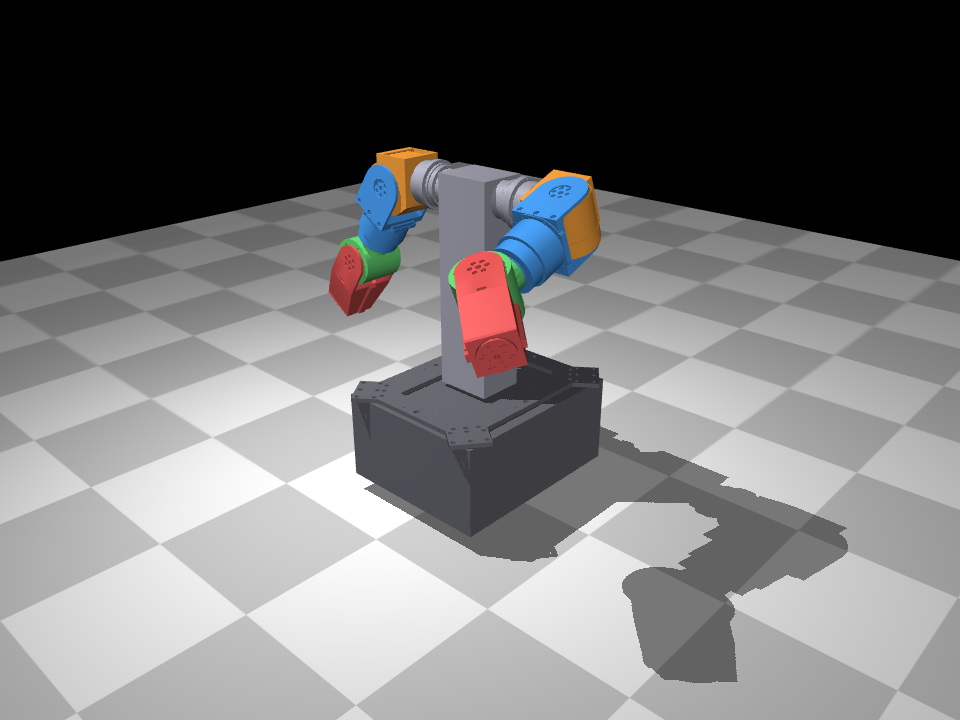
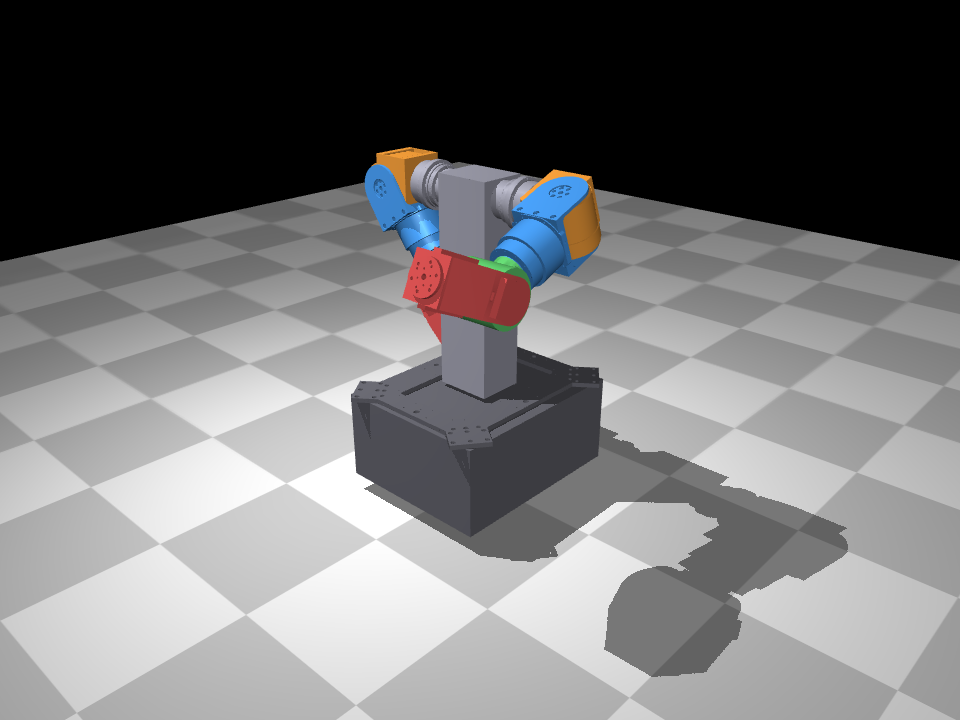
week04: 팀장 10/14 규칙(REP 103·공칭값·영점) 반영 v0 재생성, 골격 대조, 보고서·로그 갱신
- build_v0_urdf.py: cad_frame 고정 변환 1개, 축 직교·좌우 대칭 공칭값, 영점 팔 내림·팔꿈치 전방 굽힘
- verify_robot_v0.py: CAD 자세(yaw +pi/2) 편차표 joint_origin_check.csv, 접촉 0, 2 s 유지 최대 0.056 deg
- check_skeleton_vs_cad.py: 공칭 v0 vs 박종진 골격 8축 축·부호 일치, 앵커 차 <= 1.73 mm
- 노트북 뷰어 캡처 2장 갱신(새 영점), 렌더 4장
- logs/week04.md, notes/09 §10, 4주차 보고서 갱신

Claude-Session: https://claude.ai/code/session_01EMXRjTpmBaPLRBRAVHKhW2

Changed region(s): [[0.3438, 0.2444, 0.5625, 0.5194], [0.625, 0.825, 0.7812, 0.9472]]

diff --git a/sim/scripts/build_v0_urdf.py b/sim/scripts/build_v0_urdf.py
@@ -1,6 +1,12 @@
 # week04 | 우리 로봇 v0 URDF 조립: 베이스(planar, 임시 box) + 몸통(임시 box + 어깨 RI85 고정부) + 양팔 4링크 (함태훈, B1)
 # 입력 (step_to_links.py · find_joint_axes.py 결과): sim/robot/link_mass_props.csv, joint_axes_cad.csv, linkmap_arm.json, meshes/
 # 출력: sim/robot/our_robot_v0.urdf  (+ 가정값은 아래 ASSUME 표 — 확정 시 교체)
+# 팀장 회신(10/14) 규칙 반영:
+#   ① base_link = REP 103, CAD → 로봇 고정 변환은 하나(cad_frame, torso_link 아래 고정 프레임)로만 표현. CAD 점 p[mm] = cad_frame 기준 p/1000
+#   ② URDF 는 공칭값: 축은 단위축(직교), 오른팔 joint origin 은 왼팔의 거울(y 부호 반대). CAD 편차(1.37° · 7 mm)는 joint 원점 검증표에 기록
+#   ③ 영점 = 팔 내린 자세 + 팔꿈치 전방 굽힘. CAD 자세와의 90° 차이는 shoulder_yaw origin rpy (0, 0, ∓π/2)(left −, right +)로 흡수
+#      → CAD 자세 = 양팔 shoulder_yaw q = +π/2. 메시 · 관성은 링크 프레임 기준이라 그대로
+#   ④ 축 부호: 왼팔 pitch +y · roll +x · yaw +z · elbow +x, 오른팔은 거울(roll −x · yaw −z · elbow −x) — 박종진 ICD v0 3.4 와 같음
 # 실행: python sim/scripts/build_v0_urdf.py
 import csv, json, math, os
 import numpy as np
@@ -83,18 +89,32 @@ out += [f'  <joint name="torso_joint" type="fixed"><parent link="base_link"/><ch
         f'    <visual><origin xyz="{vec(tc)}"/><geometry><box size="{vec(tb)}"/></geometry></visual>\n',
         f'    <collision><origin xyz="{vec(tc - [0, 0, 0.0])}"/><geometry><box size="{f(tb[0])} {f(tb[1] - 0.002)} {f(tb[2])}"/></geometry></collision>\n',
         '  </link>\n']
+# ---- cad_frame: CAD 좌표계를 몸통 아래 고정 프레임 하나로 (CAD 원점 · 축 그대로, m 단위)
+mid_mm = np.array(lm["torso_link"]["origin_mm"])
+cad_xyz = R.T @ (-mid_mm) / 1000                              # 몸통 원점 → CAD 원점 (로봇 축)
+out += [f'  <joint name="cad_frame_joint" type="fixed"><parent link="torso_link"/><child link="cad_frame"/>\n'
+        f'    <origin xyz="{vec(np.round(cad_xyz, 5))}" rpy="1.5708 0 1.5708"/></joint>\n',
+        '  <link name="cad_frame"/>   <!-- CAD 점 p[mm] → 이 프레임 기준 p/1000. 정면(+z_CAD) 확정 시 이 변환만 바꿈 -->\n']
+AXIS = {"shoulder_pitch": (0, 1, 0), "shoulder_roll": (1, 0, 0), "shoulder_yaw": (0, 0, 1), "elbow": (1, 0, 0)}
+MIRROR = {"shoulder_pitch": 1, "shoulder_roll": -1, "shoulder_yaw": -1, "elbow": -1}     # 오른팔 축 부호
+YAW_RPY = {"left": -np.pi / 2, "right": np.pi / 2}
+# 공칭 joint origin: 왼팔 CAD 값에서 1e-3 m 미만 성분(축 기울기 · 조립 오차로 생긴 것)을 0 으로, 오른팔은 y 거울
+nominal = {}
+for (part, parent, jk), act in zip(CHAIN, ACT["left"]):
+    child = f"left_{part}_link"; par = parent if parent == "torso_link" else f"left_{parent}_link"
+    xyz = R.T @ (np.array(lm[child]["origin_mm"]) - np.array(lm[par]["origin_mm"])) / 1000
+    nominal[part] = np.where(np.abs(xyz) < 1e-3, 0.0, np.round(xyz, 5))
 rows = []
 for side in SIDES:
     for (part, parent, jk), act in zip(CHAIN, ACT[side]):
         child = f"{side}_{part}_link"
         par = parent if parent == "torso_link" else f"{side}_{parent}_link"
-        p_cad, c_cad = np.array(lm[par]["origin_mm"]), np.array(lm[child]["origin_mm"])
-        xyz = R.T @ (c_cad - p_cad) / 1000
-        ax = R.T @ np.array([float(axes[act][k]) for k in ("axis_x", "axis_y", "axis_z")])
-        ax = ax / np.linalg.norm(ax); ax = ax if ax[np.argmax(np.abs(ax))] > 0 else -ax    # 주성분 + 방향 (G1 관례)
+        xyz = nominal[part] * (np.array([1, -1, 1]) if side == "right" else 1)
+        ax = np.array(AXIS[part], float) * (MIRROR[part] if side == "right" else 1)
+        rpy = (0, 0, YAW_RPY[side]) if part == "shoulder_yaw" else (0, 0, 0)
         m, c, I = cad(child)
         out += [f'  <joint name="{side}_{part}_joint" type="revolute"><parent link="{par}"/><child link="{child}"/>\n'
-                f'    <origin xyz="{vec(xyz)}" rpy="0 0 0"/><axis xyz="{vec(np.round(ax, 4))}"/>\n'
+                f'    <origin xyz="{vec(xyz)}" rpy="{vec(np.round(rpy, 4))}"/><axis xyz="{vec(ax)}"/>\n'
                 f'    <limit lower="{-A["limit"]}" upper="{A["limit"]}" effort="{A["effort"]}" velocity="{A["velocity"]}"/></joint>\n',
                 f'  <link name="{child}">\n', inertial(m, c, I), mesh_geoms(child), '  </link>\n']
         rows.append((f"{side}_{part}_joint", act, xyz, ax))

diff --git a/sim/scripts/check_skeleton_vs_cad.py b/sim/scripts/check_skeleton_vs_cad.py
@@ -1,8 +1,8 @@
 # week04 | 팀 연계: 박종진 골격 URDF(b1_humanoid_skeleton.urdf, 커밋 e292b37) joint origin · axis vs 함태훈 CAD 관절 축 검증표 (함태훈, B1)
 # 비교 방법: 두 모델을 q = 0 으로 MuJoCo 에 올려 각 관절의 앵커(xanchor) · 축(xaxis)을 「몸통(torso_link) 프레임」으로 옮긴 뒤,
 #   골격 앵커가 CAD 축 직선에서 얼마나 떨어졌는지(수직거리), 축 방향이 몇 도 다른지 계산. 축 위 위치 차이는 원점 선택 차이일 뿐이라 따로 표시.
-# 실행: python sim/scripts/check_skeleton_vs_cad.py --skeleton <박종진 저장소>/b1/models/v0/urdf/b1_humanoid_skeleton.urdf
-#   → sim/robot/joint_check_skeleton.csv
+# 실행: ① 10/13 CAD 그대로 v0 vs 골격 e292b37 → joint_check_skeleton.csv (편차 기록, 결과 보존)
+#       ② 10/14 공칭 v0 vs 골격 0129b3c 이후:  python sim/scripts/check_skeleton_vs_cad.py --skeleton <박종진>/b1/models/v0/urdf/b1_humanoid_skeleton.urdf --out joint_check_nominal_vs_skeleton.csv
 import argparse, csv, os, re, sys
 import numpy as np
 import mujoco
@@ -10,11 +10,18 @@ sys.path.insert(0, os.path.dirname(os.path.abspath(__file__)))
 from mj_load import load_model
 
 ROOT = os.path.join(os.path.dirname(os.path.dirname(os.path.abspath(__file__))), "robot")
-ap = argparse.ArgumentParser(); ap.add_argument("--skeleton", required=True); a = ap.parse_args()
+ap = argparse.ArgumentParser(); ap.add_argument("--skeleton", required=True)
+ap.add_argument("--mine", default=None, help="비교할 함태훈 URDF (기본: sim/robot/our_robot_v0.urdf)")
+ap.add_argument("--yaw_cad", action="store_true", help="양쪽 모두 shoulder_yaw = +π/2 (CAD 자세)로 비교")
+ap.add_argument("--out", default="joint_check_skeleton.csv"); a = ap.parse_args()
 
 
 def joints_in_torso(model):
-    d = mujoco.MjData(model); mujoco.mj_forward(model, d)
+    d = mujoco.MjData(model)
+    if a.yaw_cad:
+        for side in ("left", "right"):
+            d.qpos[model.joint(f"{side}_shoulder_yaw_joint").qposadr[0]] = np.pi / 2
+    mujoco.mj_forward(model, d)
     t = model.body("torso_link").id; Rt, pt = d.xmat[t].reshape(3, 3), d.xpos[t]
     out = {}
     for j in range(model.njnt):
@@ -27,7 +34,7 @@ def joints_in_torso(model):
 xml = open(a.skeleton, encoding="utf-8").read()
 xml = re.sub(r"<(visual|collision)>.*?</\1>", "", xml, flags=re.S)        # 골격 비교에는 형상 불필요
 sk = mujoco.MjModel.from_xml_string(xml)
-me = load_model(os.path.join(ROOT, "our_robot_v0.urdf"))
+me = load_model(a.mine or os.path.join(ROOT, "our_robot_v0.urdf"))
 S, M = joints_in_torso(sk), joints_in_torso(me)
 rows = []
 for n in sorted(M):
@@ -39,6 +46,6 @@ for n in sorted(M):
                      skeleton_axis=np.round(s, 4).tolist(), cad_axis=np.round(d, 4).tolist(), axis_angle_deg=round(ang, 2),
                      axis_sign=("같음" if s @ d > 0 else "반대")))
     print(f"{n:28s} 수직거리 {rows[-1]['perp_dist_mm']:6.2f} mm  축 위 {rows[-1]['along_axis_mm']:7.2f} mm  축 각도 차 {ang:5.2f}°  부호 {rows[-1]['axis_sign']}")
-with open(os.path.join(ROOT, "joint_check_skeleton.csv"), "w", newline="", encoding="utf-8-sig") as fp:
+with open(os.path.join(ROOT, a.out), "w", newline="", encoding="utf-8-sig") as fp:
     w = csv.DictWriter(fp, fieldnames=list(rows[0])); w.writeheader(); w.writerows(rows)
-print("저장: sim/robot/joint_check_skeleton.csv")
+print("저장: sim/robot/" + a.out)

diff --git a/sim/scripts/verify_robot_v0.py b/sim/scripts/verify_robot_v0.py
@@ -57,20 +57,37 @@ pairs = [(s.geom(c.geom1).name or s.body(s.geom_bodyid[c.geom1]).name, s.geom(c.
          for c in d.contact[:d.ncon]]
 print(f"초기 자세 접촉 {d.ncon}개:", pairs[:12])
 
-# 관절 앵커 · 축 (월드) vs CAD 관절점을 월드로 옮긴 값
+# 관절 앵커 · 축: 공칭 URDF 를 「CAD 자세」(양팔 shoulder_yaw q = +π/2)로 두고 CAD 관절점 · 축과 비교 = 편차 기록 (팀장 10/14: URDF 공칭, 편차는 검증표)
 lm = {L["name"]: L for L in json.load(open(os.path.join(ROOT, "linkmap_arm.json"), encoding="utf-8"))["links"]}
+axes_cad = {int(r["actuator"].split(":")[1]): np.array([float(r[k]) for k in ("axis_x", "axis_y", "axis_z")])
+            for r in csv.DictReader(open(os.path.join(ROOT, "joint_axes_cad.csv"), encoding="utf-8-sig"))}
+ACT = {"left": [1, 2, 3, 4], "right": [6, 5, 7, 8]}
 mid = np.array(lm["torso_link"]["origin_mm"])
+dc = mujoco.MjData(s)
+for side in ("left", "right"):
+    dc.qpos[s.joint(f"{side}_shoulder_yaw_joint").qposadr[0]] = np.pi / 2
+mujoco.mj_forward(s, dc)
 rows = []
 for side in ("left", "right"):
-    for part in ("shoulder_pitch", "shoulder_roll", "shoulder_yaw", "elbow"):
+    for part, act in zip(("shoulder_pitch", "shoulder_roll", "shoulder_yaw", "elbow"), ACT[side]):
         j = s.joint(f"{side}_{part}_joint")
         cad_w = np.array([0, 0, SHOULDER_Z]) + R.T @ (np.array(lm[f"{side}_{part}_link"]["origin_mm"]) - mid) / 1000
-        err = np.linalg.norm(d.xanchor[j.id] - cad_w) * 1000
-        rows.append(dict(joint=j.name, anchor_world_m=np.round(d.xanchor[j.id], 5).tolist(), cad_world_m=np.round(cad_w, 5).tolist(),
-                         err_mm=round(err, 4), axis_world=np.round(d.xaxis[j.id], 4).tolist()))
+        a_cad = R.T @ axes_cad[act]; a_cad /= np.linalg.norm(a_cad)
+        v = dc.xanchor[j.id] - cad_w; ax = dc.xaxis[j.id]
+        perp = np.linalg.norm(v - (v @ a_cad) * a_cad) * 1000
+        ang = np.degrees(np.arccos(min(1.0, abs(ax @ a_cad))))
+        rows.append(dict(joint=j.name, urdf_anchor_m=np.round(dc.xanchor[j.id], 5).tolist(), cad_point_m=np.round(cad_w, 5).tolist(),
+                         dev_perp_mm=round(perp, 2), dev_axis_deg=round(ang, 2), urdf_axis_world=np.round(ax, 4).tolist(),
+                         cad_axis_world=np.round(a_cad, 4).tolist()))
 with open(os.path.join(ROOT, "joint_origin_check.csv"), "w", newline="", encoding="utf-8-sig") as fp:
     w = csv.DictWriter(fp, fieldnames=list(rows[0])); w.writeheader(); w.writerows(rows)
-print("관절 앵커 vs CAD 관절점 최대 차:", max(r["err_mm"] for r in rows), "mm  → joint_origin_check.csv")
+print("공칭 URDF vs CAD (CAD 자세, yaw = +π/2) 편차:")
+for r in rows: print(f"  {r['joint']:28s} 축 직선까지 {r['dev_perp_mm']:5.2f} mm · 축 각도 {r['dev_axis_deg']:4.2f}°")
+# 영점 정의 확인: 팔 내림 자세에서 elbow + 가 앞(+x)으로 굽는지
+for side in ("left", "right"):
+    de = mujoco.MjData(s); mujoco.mj_forward(s, de); b = s.body(f"{side}_elbow_link").id; x0 = de.xipos[b].copy()
+    de.qpos[s.joint(f"{side}_elbow_joint").qposadr[0]] = 0.5; mujoco.mj_forward(s, de)
+    print(f"영점 확인 [{side}]: elbow +0.5 rad → 팔꿈치 링크 COM x {x0[0]*1000:+.1f} → {de.xipos[b][0]*1000:+.1f} mm (앞 = +x)")
 
 # 중력 토크: 팔을 내린 자세(0) · 앞으로 수평(pitch -90°)
 for label, q in (("팔 내림(q=0)", 0.0), ("팔 앞으로 수평(pitch -π/2)", -np.pi / 2)):

diff --git a/logs/week04.md b/logs/week04.md
@@ -26,7 +26,7 @@
 | 4 | **링크별 STL (화)**: 9개 링크 + 상판 visual(1.1만~5.6만 면, 구동기 내부 기어 · 베어링 제외) · collision(hull 270~390 면) | 100 % | [sim/robot/meshes/](../sim/robot/meshes/) (20개) |
 | 5 | **질량 · COM · 관성 표 → inertial 블록 (수)**: 밀도 Al 2700 / 강 7850 / PCB 1850 가정. OpenCascade · trimesh · **FreeCAD 1.0.2(노트북)** 3자 중 2자+FreeCAD 비교, BOM 열 대기 | 90 % (BOM) | [link_mass_props.csv](../sim/robot/link_mass_props.csv), [inertial_blocks.xml](../sim/robot/inertial_blocks.xml), [freecad_link_export.FCMacro](../sim/scripts/freecad_link_export.FCMacro), 캡처 [상판](../assets/screenshots/week04/week04_freecad_base_plate.png) · [팔꿈치](../assets/screenshots/week04/week04_freecad_left_elbow_al.png) |
 | 6 | **v0 URDF → MuJoCo (수)**: world —planar→ base(상판 STEP 메시 + 임시 box) —fixed→ torso(어깨 RI85 고정부 + 임시 box) → 양팔 4링크. 3단 구조 robot.xml(mj_saveLastXML, 수정 금지) → robot_actuated.xml → scene.xml | 100 % (가정값 표 포함) | [build_v0_urdf.py](../sim/scripts/build_v0_urdf.py), [our_robot_v0.urdf](../sim/robot/our_robot_v0.urdf), [robot.xml](../sim/robot/robot.xml) · [robot_actuated.xml](../sim/robot/robot_actuated.xml) · [scene.xml](../sim/robot/scene.xml), 캡처 [iso](../assets/screenshots/week04/week04_v0_iso.png) · [pose](../assets/screenshots/week04/week04_v0_pose.png) · [collision](../assets/screenshots/week04/week04_v0_iso_collision.png), **노트북 MuJoCo 뷰어** [기본 자세](../assets/screenshots/week04/week04_v0_viewer_laptop.png) · [Control 로 왼팔 pitch −1.21 · elbow 0.801 유지](../assets/screenshots/week04/week04_v0_viewer_laptop_pose.png) |
-| 7 | v0 점검 (금 과제 일부 선행): 초기 접촉 0, 관절 앵커 = CAD 관절점 0.0 mm, 2 s 자세 유지 최대 0.145°, 중력 토크 | 70 % (관절 범위는 가정) | [verify_robot_v0.py](../sim/scripts/verify_robot_v0.py), [verify_robot_v0_log.txt](../sim/robot/verify_robot_v0_log.txt), [joint_origin_check.csv](../sim/robot/joint_origin_check.csv) |
+| 7 | v0 점검 (금 과제 일부 선행): 초기 접촉 0, 2 s 자세 유지 최대 0.056°, 영점 확인(양팔 elbow +0.5 rad → 팔꿈치 COM +x 38 mm, 앞으로 굽힘), 공칭 vs CAD 편차표, 중력 토크 | 70 % (관절 범위는 가정) | [verify_robot_v0.py](../sim/scripts/verify_robot_v0.py), [verify_robot_v0_log.txt](../sim/robot/verify_robot_v0_log.txt), [joint_origin_check.csv](../sim/robot/joint_origin_check.csv) |
 | 8 | **팀 연계**: ① 박종진 관절 표(0dfa6e8) ↔ CAD 축: 수직거리 ≤ 0.064 mm, 축 ≤ 0.024°, 분할 차이 1건 반영(모터드라이버 5 · 6 → elbow) ② **골격 URDF(e292b37) joint origin 검증표**: pitch · roll 앵커 ≤ 0.05 mm · 0.01° 일치, yaw · elbow 는 골격의 축 정렬 1.37° · 거울 대칭 7.4 mm(의도된 차이), 축 부호 규약 3건 차이 → 통일 요청 | 100 % | [check_joint_table_vs_pjj.py](../sim/scripts/check_joint_table_vs_pjj.py) · [check_skeleton_vs_cad.py](../sim/scripts/check_skeleton_vs_cad.py), [joint_check_vs_pjj.csv](../sim/robot/joint_check_vs_pjj.csv) · [joint_check_skeleton.csv](../sim/robot/joint_check_skeleton.csv), [notes/09 §8~9](../notes/09_our_robot_link_split_v0.md) |
 | 9 | (팀장 회신 10/8) 박종진 RI85 ICD 요청서 v0 검토 — 보완 3건(다단 유성기어 반사관성, 기어 효율 · 백래시, 질량 항목 근거) | 50 % (전달 · 공동 제출 전) | b1/docs/icd/actuator-spec-request.md (박종진 저장소) |
 
@@ -65,14 +65,15 @@ python sim/scripts/view_v0.py                  # 뷰어 (한글 경로 대비). 
 | 3자 비교 — 상판 | FreeCAD 3.6901 kg = 스크립트 3.690097, 관성 6자리 일치, trimesh 0.034 % | Al 2700, 상판 중심 기준 |
 | 3자 비교 — 팔꿈치 Al 3부품 | FreeCAD 1.65145 kg, ixx 0.0115097 = 스크립트 동일 | 원점 J4, CAD 축 |
 | trimesh vs OpenCascade (링크) | 질량 0.2~1.3 %, 관성 0.3~3.2 % | 부품이 맞닿아 메시 watertight 아님 |
-| 평행축 정리 (왼 팔꿈치) | I_C 0.01453 → 축 기준 0.02914 kg·m² (2.0배) = MuJoCo M[elbow] 0.029144 | COM 이 축에서 80.3 mm, 2.268 kg |
+| 평행축 정리 (왼 팔꿈치) | I_C 0.01449 → 축 기준 0.02893 kg·m² (2.0배) = MuJoCo M[elbow] 0.028927 | 공칭 축(+x), COM 이 축에서 79.8 mm, 2.268 kg |
 | convex hull / 실제 부피 | pitch 2.59 · roll 3.84 · yaw 2.95 · elbow 4.34 · 몸통 6.08배 | collision 270~390 면 |
-| 관절 축 기울기 · 비대칭 (CAD) | yaw · elbow 축 1.37°, 오른팔 상완 이하 x +7.1 mm | v0 는 CAD 그대로, 팀장 확인 |
+| 관절 축 기울기 · 비대칭 (CAD) | yaw · elbow 축 1.37°, 오른팔 상완 이하 7.1~7.2 mm | v0 URDF 는 공칭값, 편차는 `joint_origin_check.csv` (팀장 10/14) · A1 확인 요청 |
 | v0 MuJoCo | body 11 · joint 11(planar _TX _TY _RZ + 8) · 67.464 kg, 초기 접촉 0 | mujoco 3.15, 베이스 30 kg · 몸통 box 5 kg 가정 |
-| 자세 유지 | 2 s 최대 0.145° | position kp 200 · kv 10 (가정), armature 0 |
-| 중력 토크 | 팔 수평(pitch −90°) 어깨 22.725 Nm = 14.170 × 9.81 × 0.1635 | 팔 내림 0.301 Nm |
+| 자세 유지 | 2 s 최대 0.056° | position kp 200 · kv 10 (가정), armature 0 |
+| 중력 토크 | 팔 수평(pitch −90°) 어깨 22.725 Nm = 14.170 × 9.81 × 0.1635 | 팔 내림 0.095 Nm, 공칭 v0 (영점 = 팔 내림 · 팔꿈치 전방) |
 | 박종진 관절 표 대조 | 수직거리 ≤ 0.064 mm, 축 각도 ≤ 0.024° | 원점 위치 차 22 mm 는 축 위 이동 |
-| 박종진 골격 URDF 검증 | pitch · roll ≤ 0.05 mm · 0.01°, yaw · elbow 1.37° · 오른팔 7.4~7.5 mm, 축 부호 반대 3건(L yaw, R roll, R elbow) | q = 0, 몸통 프레임 기준 |
+| 공칭 v0 vs 박종진 골격(0129b3c 이후) | 축 · 부호 8개 모두 일치(0.00°), 앵커 수직거리 ≤ 1.73 mm (공칭 위치 반올림 기준 차) | q = 0, `joint_check_nominal_vs_skeleton.csv` |
+| 박종진 골격 URDF 검증 (10/13, CAD v0 vs e292b37) | pitch · roll ≤ 0.05 mm · 0.01°, yaw · elbow 1.37° · 오른팔 7.4~7.5 mm, 축 부호 반대 3건(L yaw, R roll, R elbow) | q = 0, 몸통 프레임 기준 |
 | 골격 v0 vs 함태훈 질량 (왼 elbow) | 2.1425 vs 2.268 kg, 차 0.1255 kg = ring2 기어 + cover plate1 | 출력측 부품 범위 차 |
 | E6 armature (F3) | **0 — RI85 사양 미수령, 팀장 10/8 0 허용** | ICD 요청 중 |
 
@@ -98,15 +99,27 @@ python sim/scripts/view_v0.py                  # 뷰어 (한글 경로 대비). 
 
 ## 5. 구술 대비 (10/15 목, 2문항) — 상세: 구술 답변 파일 · notes/09
 
-- **Q1. 평행축 정리와 URDF inertial 기준**: I_O = I_C + m(|d|²E − ddᵀ). URDF `<inertial>` 은 origin = 링크 원점 → COM, inertia = **COM 기준**. 우리 왼 팔꿈치 2.268 kg, COM 축에서 80.3 mm → 0.01453 → 0.02914 kg·m²(2.0배) = MuJoCo 질량행렬 0.029144. FreeCAD 1.0.2 와 6자리 일치
+- **Q1. 평행축 정리와 URDF inertial 기준**: I_O = I_C + m(|d|²E − ddᵀ). URDF `<inertial>` 은 origin = 링크 원점 → COM, inertia = **COM 기준**. 우리 왼 팔꿈치 2.268 kg, COM 축에서 79.8 mm → 0.01449 → 0.02893 kg·m²(2.0배) = MuJoCo 질량행렬 0.028927. FreeCAD 1.0.2 와 6자리 일치
 - **Q2. visual · collision 분리와 convex hull 한계**: 충돌은 매 스텝 계산 → 단순 형상(우리 팔 visual 1.1만~4.2만 면 → collision 270~320 면). MuJoCo 메시 충돌 = convex hull → 오목한 C브래킷 · 요크가 메워짐(hull/실제 2.6~4.3배), G1 팔꿈치 낙하 시험 28.8 mm 위 정지 → 원시 도형 · convex 분해 · exclude
 
 ## 6. 다음 주 목표 (5주차, 커리큘럼 공지 후 확정)
 
 1. BOM · RI85 사양 수령 시 밀도 · 질량 보정, 3자 비교 BOM 열 · armature · effort 반영
 2. 박종진과 RI85 출력측 부품 범위 · 축 부호 규약 통일, 메시 · 관성 한 벌로 합치기
-3. 팀장 확인 결과(4-DOF, 축 1.37°, 오른팔 7.1 mm, 전방, planar 베이스) 반영해 v1 URDF
+3. A1 회신(1.37° · 7 mm 의도 여부, 손목 2축) · 정면(+z_CAD) 확정 반영
 4. 금요일 과제 마무리: 관절 범위 · 자기 충돌 점검, 오목 링크 convex 분해 비교
+
+## 6-1. 팀장 회신 (10/14, 박종진 공유 · 박종진 0129b3c) → **10/14 v0 에 반영 완료**
+
+| 규칙 | 내용 | 10/13 v0 | 10/14 v0 (반영) |
+|---|---|---|---|
+| 좌표 | base_link = REP 103(+x 전방, +y 좌, +z 상), CAD → base 고정 변환 하나(`cad_frame`)만 둠. CAD 점 p[mm] → cad_frame 기준 p/1000 | 링크마다 rpy(−π/2, −π/2, 0)로 같은 변환을 직접 적용 | ✅ `cad_frame` (torso 아래 고정, xyz 0 0.11814 0, rpy π/2 0 π/2) |
+| 영점 | CAD 자세가 아니라 「팔 내림 + 팔꿈치 전방 굽힘」 = 0. 90° 차이는 shoulder_yaw origin rpy (0, 0, ∓π/2)(left −, right +)로 흡수 → 양팔 elbow + = 앞으로 굽힘 | CAD 자세 = 0 (팔꿈치가 옆으로 굽힘) | ✅ yaw origin rpy (0,0,∓π/2), CAD 자세 = yaw q +π/2. elbow +0.5 rad → 팔꿈치 COM +38 mm 전방 |
+| 공칭값 | URDF 는 축 직교 · 좌우 대칭 공칭값, 편차(1.37°, 7.4 mm)는 joint 원점 검증표에 기록 | CAD 측정값 그대로(축 1.37° 기울기 · 오른팔 7.1 mm 포함) | ✅ 공칭 축 · 오른팔 거울 위치, 편차는 `joint_origin_check.csv`(CAD 자세에서 1.37° · 7.1~7.2 mm) |
+| 축 부호 | 오른팔 거울(roll · yaw · elbow 부호 반대), 구동기 출력 방향과 URDF 축이 반대인 관절은 B2 부호표로 | 양팔 같은 부호 | ✅ 오른팔 roll −x · yaw −z · elbow −x — 박종진 골격과 8개 관절 축 · 부호 일치 |
+
+- 팀장이 「이번 주 보고서에 그대로」라고 해서 제출 전(10/14)에 v0 를 다시 만듦: `build_v0_urdf.py` · `verify_robot_v0.py` 재실행, 캡처 갱신. 10/13 CAD 그대로 판은 커밋 43fc7ae 에 남음.
+- 1.37° · 7 mm 는 A1 전달 대상 — 박종진이 측정 부품 · 기준 그림으로 팀장께 전달(10/14).
 
 ## 7. 제출 · 릴리스 기록
 

diff --git a/notes/09_our_robot_link_split_v0.md b/notes/09_our_robot_link_split_v0.md
@@ -82,9 +82,11 @@
 
 ## 6. v0 URDF (`our_robot_v0.urdf` → `robot.xml` → `robot_actuated.xml` → `scene.xml`)
 
+> **10/14 팀장 회신 반영으로 다시 만듦** (§10): REP 103 + `cad_frame` 1개, 공칭값(축 직교 · 오른팔 거울), 영점 = 팔 내림 · 팔꿈치 전방 굽힘(yaw origin rpy ∓π/2). 아래 수치 중 자세 유지 · 중력 토크는 10/14 공칭 v0 기준, 10/13 CAD 그대로 판은 커밋 43fc7ae.
+
 - 구성: world —planar→ base_link(상판 STEP 메시 + 아래 하체 임시 box) —fixed→ torso_link(어깨 RI85 고정부 + 임시 box) → 양팔 4링크. 관절 11개(베이스 _TX · _TY · _RZ + 팔 8), 질량 67.464 kg
-- MuJoCo 3.15 로드: 초기 자세 접촉 0개, 관성 경고 없음. position 액추에이터(kp 200 · kv 10, 가정)로 2 s 유지 시 최대 0.145°
-- 중력 토크: 왼팔을 앞으로 수평(pitch −π/2)으로 들 때 어깨 pitch **22.725 Nm** = 팔 14.170 kg × 9.81 × COM 수평거리 0.1635 m. 팔 내림 자세 0.301 Nm → RI85 정격 토크 확인 필요(ICD)
+- MuJoCo 3.15 로드: 초기 자세 접촉 0개, 관성 경고 없음. position 액추에이터(kp 200 · kv 10, 가정)로 2 s 유지 시 최대 0.056° (10/13 CAD 판 0.145°)
+- 중력 토크: 왼팔을 앞으로 수평(pitch −π/2)으로 들 때 어깨 pitch **22.725 Nm** = 팔 14.170 kg × 9.81 × COM 수평거리 0.1635 m. 팔 내림 자세 0.095 Nm → RI85 정격 토크 확인 필요(ICD)
 - 캡처: `assets/screenshots/week04/week04_v0_front.png` · `_iso` · `_pose`(visual) · `_iso_collision`(convex hull 충돌 형상)
 
 ### 가정값 표 (build_v0_urdf.py `ASSUME`, 확정 시 교체)
@@ -153,3 +155,25 @@ FreeCAD 는 이 STEP 의 한글 이름을 `\X2\…\X0\`(UTF-16 코드)로 표시
 - 축 위 거리(원점 선택 차) 16~23 mm 는 같은 관절이라 무관
 - 결론: 위치는 CAD 와 맞고, 차이는 ① 1.37° · 7 mm 를 골격이 보정한 것(팀장 확인 대상) ② **축 부호 규약 3건** — 골격은 오른팔 roll · elbow 를 거울(−x), 왼 yaw 를 −z 로 둠. 함태훈 v0 는 양팔 같은 방향(+x, +z) → 관절각 양(+) 방향이 반대가 되므로 B2 제어 전 통일 필요
 - 질량 비교: 골격 v0 왼팔 pitch 4.610 · roll 4.383 · yaw 3.550 · elbow 2.1425 kg vs 함태훈 4.396 · 4.170 · 3.336 · 2.268 kg. elbow 차 0.1255 kg = 함태훈이 출력측에 넣은 ring2 기어(강 15.24 cm³ = 0.1197 kg) + cover plate1(Al 2.08 cm³ = 0.0056 kg) → 출력측 부품 범위만 통일하면 맞음. 나머지 링크 차 0.21 kg 은 같은 방식으로 대조 예정
+
+## 10. 팀장 회신(10/14) 반영 — 공칭 v0 (`build_v0_urdf.py` 머리말 규칙 ①~④)
+
+| 규칙 | 반영 |
+|---|---|
+| ① REP 103 + CAD → base 고정 변환 하나 | `cad_frame` (torso_link 아래 고정, xyz (0, 0.11814, 0) m, rpy (π/2, 0, π/2)). CAD 점 p[mm] → cad_frame 기준 p/1000 |
+| ② 공칭값 | 축 = 단위축, 왼팔 joint origin 에서 1 mm 미만 성분(축 기울기 · 조립 오차)은 0, 오른팔 origin = 왼팔 y 거울 |
+| ③ 영점 | shoulder_yaw origin rpy (0, 0, −π/2) left · (+π/2) right → 팔 내림에서 elbow + = 전방. 확인: 양팔 elbow +0.5 rad → 팔꿈치 링크 COM x −1.7 → +36.5 mm (left) · −1.6 → +36.7 mm (right) |
+| ④ 축 부호 | 왼팔 +y · +x · +z · +x, 오른팔 +y · −x · −z · −x (거울, ICD v0 3.4) |
+
+**편차 기록 (joint 원점 검증표, `joint_origin_check.csv`)** — 공칭 URDF 를 CAD 자세(양팔 yaw q = +π/2)로 두고 CAD 축과 비교
+
+| 관절 | left: 축 직선까지 · 축 각도 | right |
+|---|---|---|
+| shoulder_pitch | 0.00 mm · 0.00° | 0.00 mm · 0.00° |
+| shoulder_roll | 0.00 mm · 0.01° | 0.00 mm · 0.01° |
+| shoulder_yaw | 0.01 mm · 1.37° | **7.12 mm** · 1.37° |
+| elbow | 0.11 mm · 1.37° | **7.22 mm** · 1.37° |
+
+**박종진 골격(0129b3c 이후)과 대조** (`joint_check_nominal_vs_skeleton.csv`, q = 0, 몸통 프레임): 8개 관절 축 방향 · 부호 모두 일치(0.00°), 앵커 수직거리 pitch 0.00 · roll 0.05 · yaw 1.66 · elbow 1.73 mm(양팔 같음) — 공칭 위치를 어느 점 기준으로 반올림했는지의 차이, 한 벌로 합칠 때 하나로 통일.
+
+질량 · 관성 · 메시는 링크 프레임 기준이라 바뀌지 않음(§3 표 그대로). 왼 팔꿈치 평행축: 공칭 축 +x 기준 I_C 0.01449 → 0.02893 kg·m² (COM 축에서 79.8 mm) = MuJoCo M[elbow] 0.028927.
